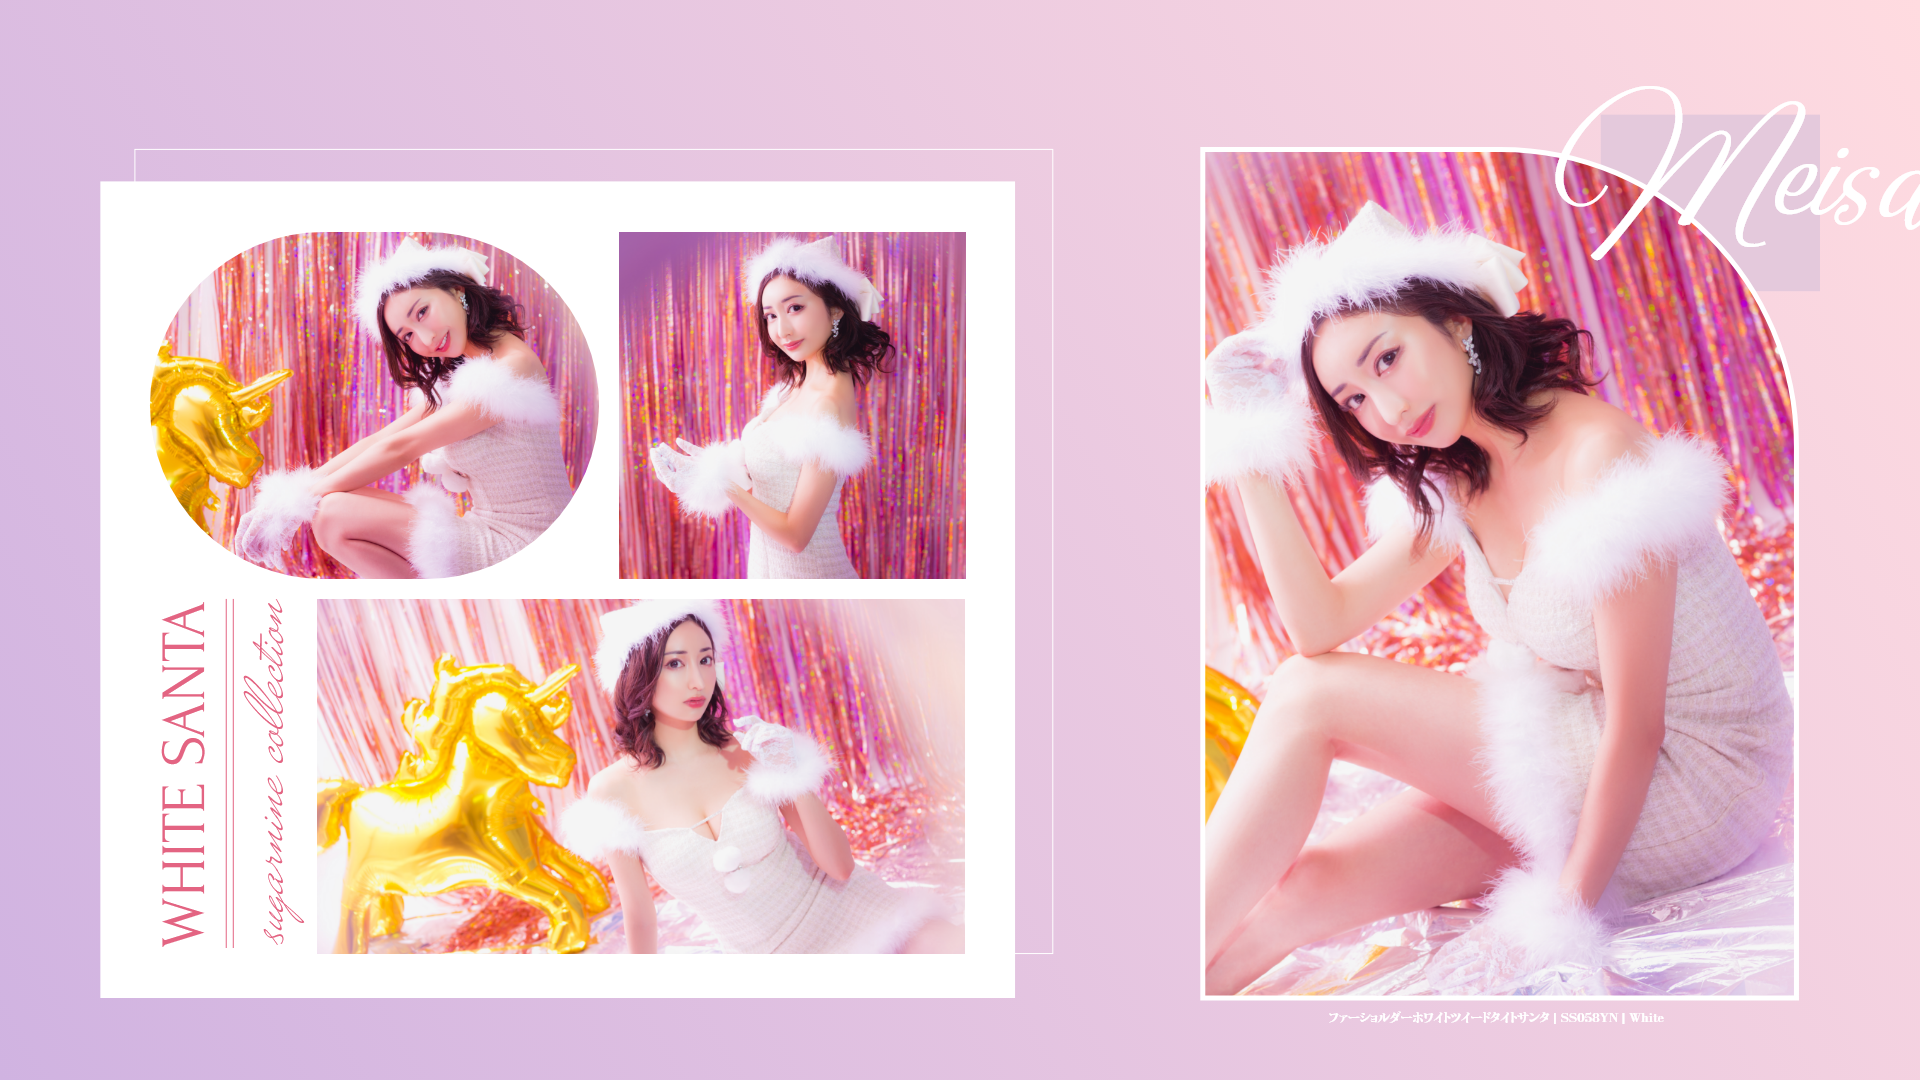
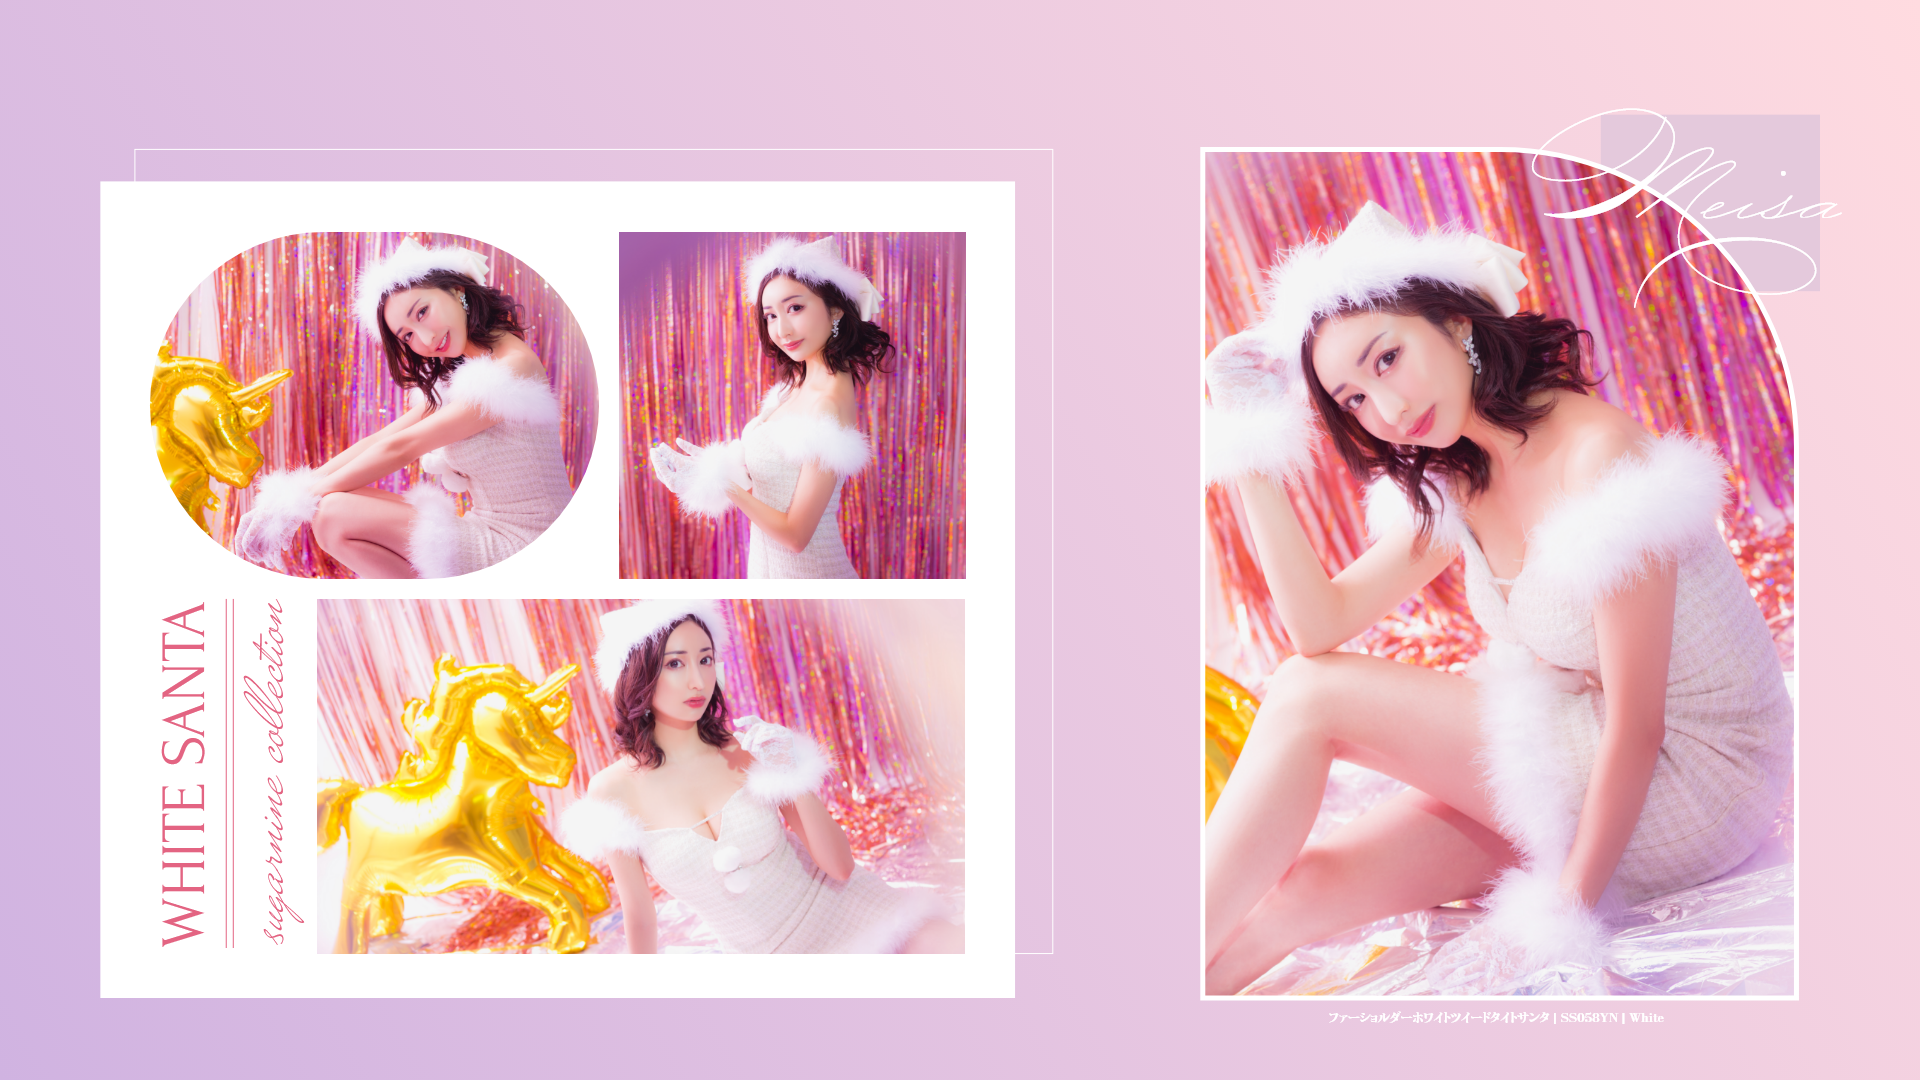
herokuyml一旦コミット一旦コミット

Changed region(s): [[0.8125, 0.0611, 1.0, 0.2444]]

diff --git a/public/css/style.css b/public/css/style.css
@@ -848,10 +848,10 @@ html.has-scroll-init {
 }
 
 #enrike_section3 iframe {
-  top: calc((100% - 155px) / 2.12);
-  left: 940px;
-  height: 170px;
-  width: 305px;
+  top: calc((100% - 225px) / 2.12);
+  left: 1410px;
+  height: 260px;
+  width: 455px;
   position: absolute;
 }
 
@@ -1013,10 +1013,10 @@ html.has-scroll-init {
   }
   
   #enrike_section3 iframe {
-    top: calc((100% - 275px) / 2.12);
-    left: 1515px;
-    height: 230px;
-    width: 355px;
+    top: calc((100% - 155px) / 2.12);
+    left: 940px;
+    height: 170px;
+    width: 305px;
     position: absolute;
   }
   
